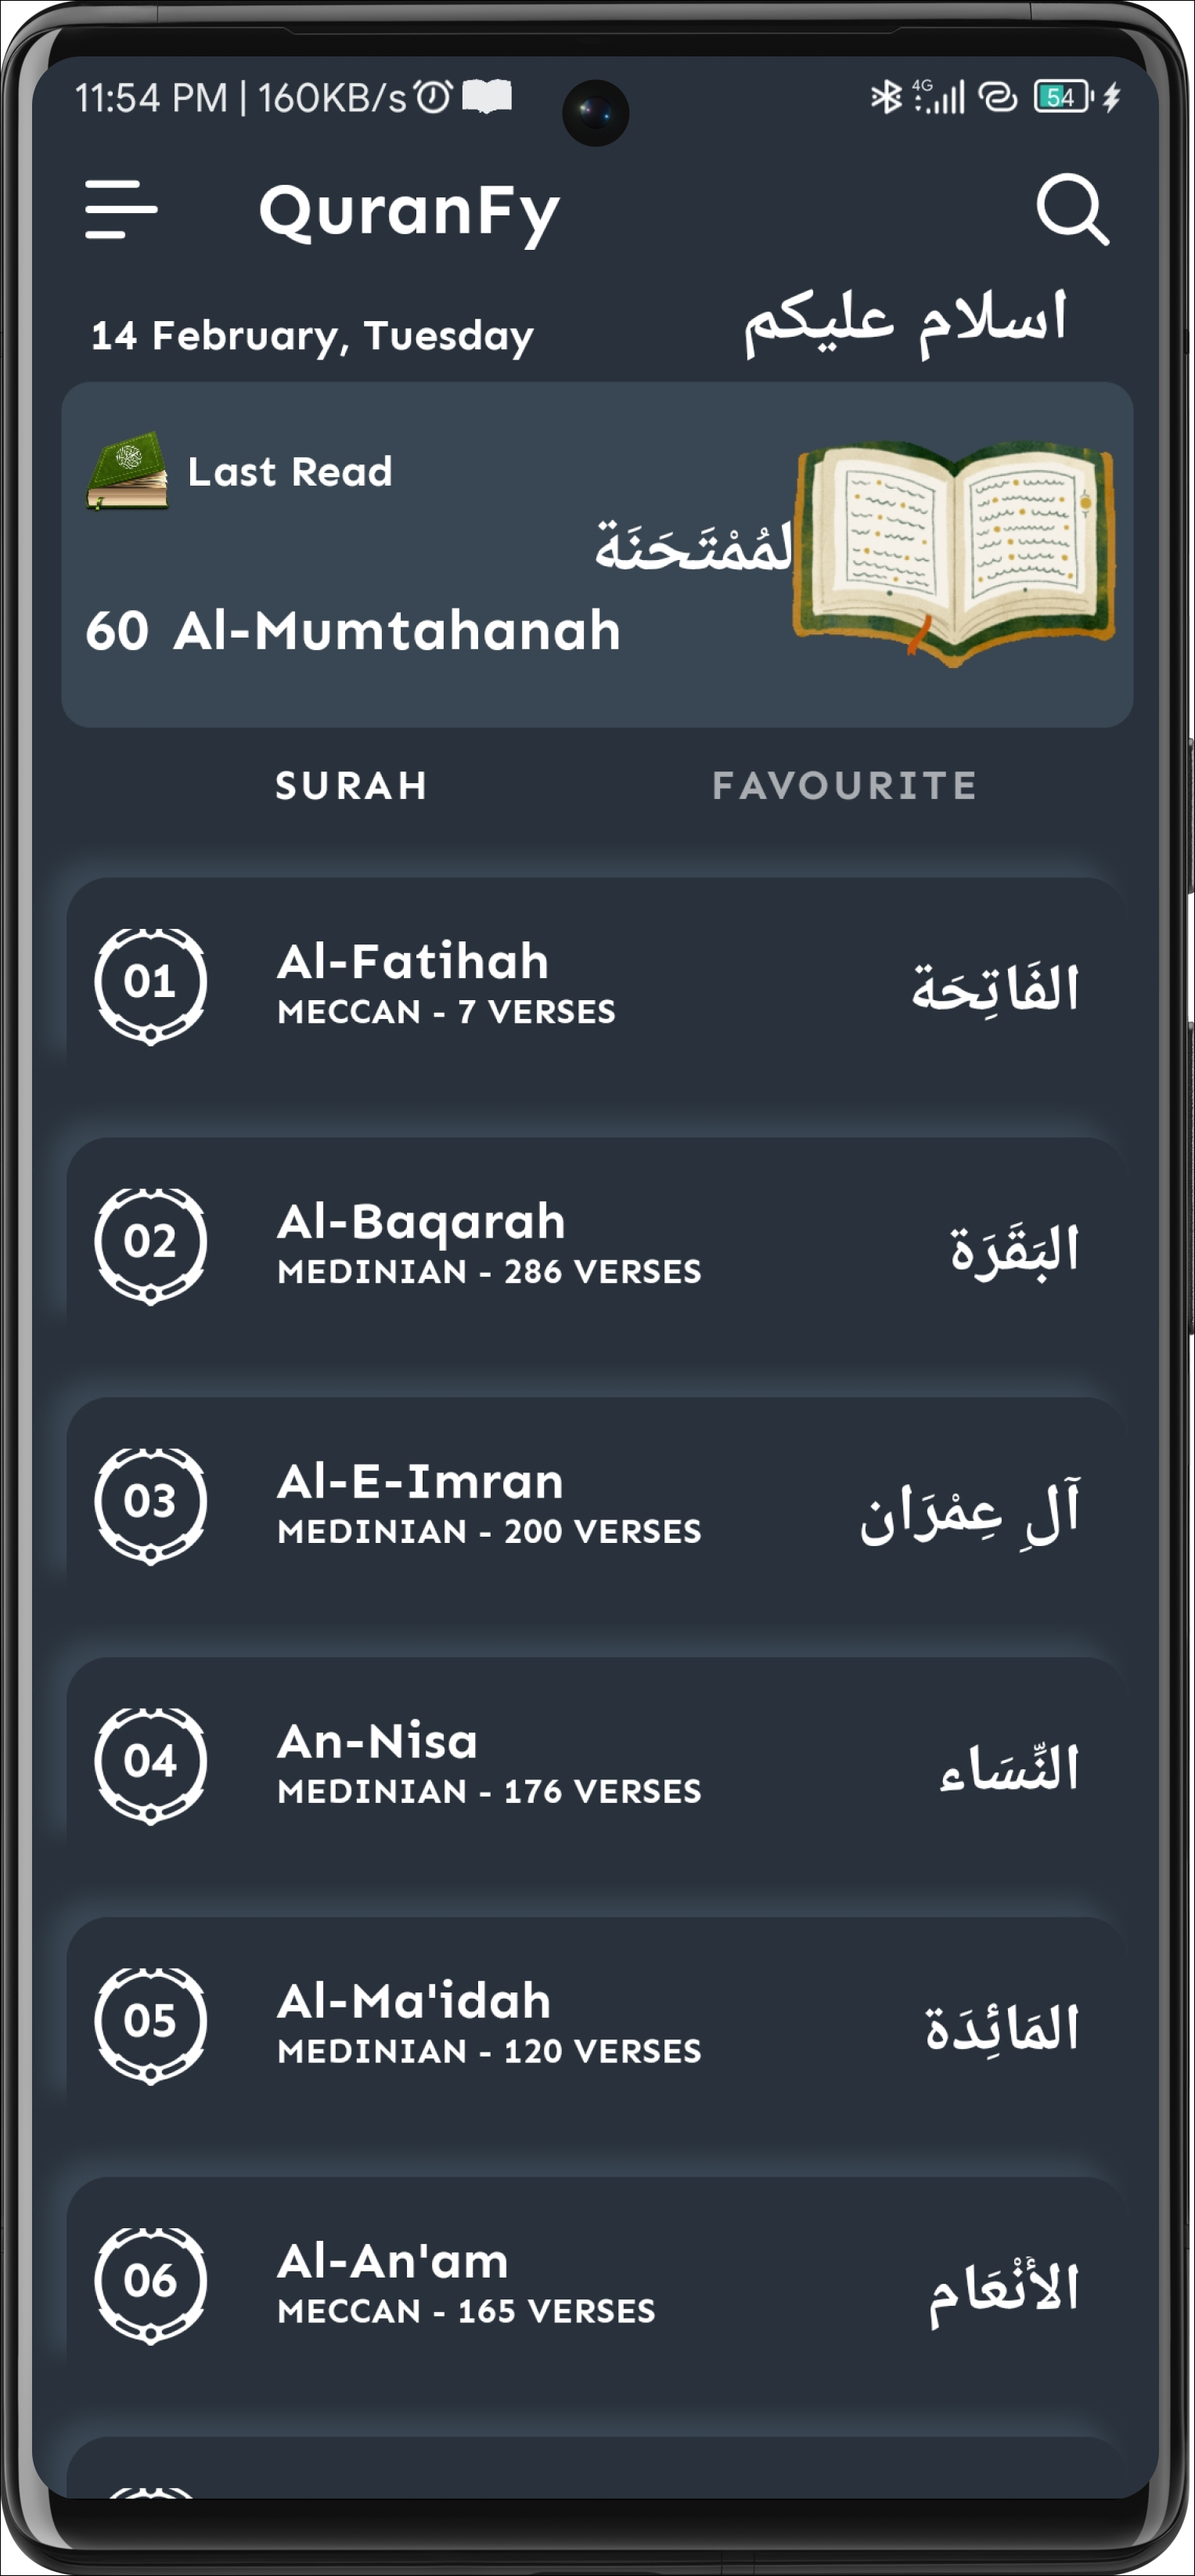
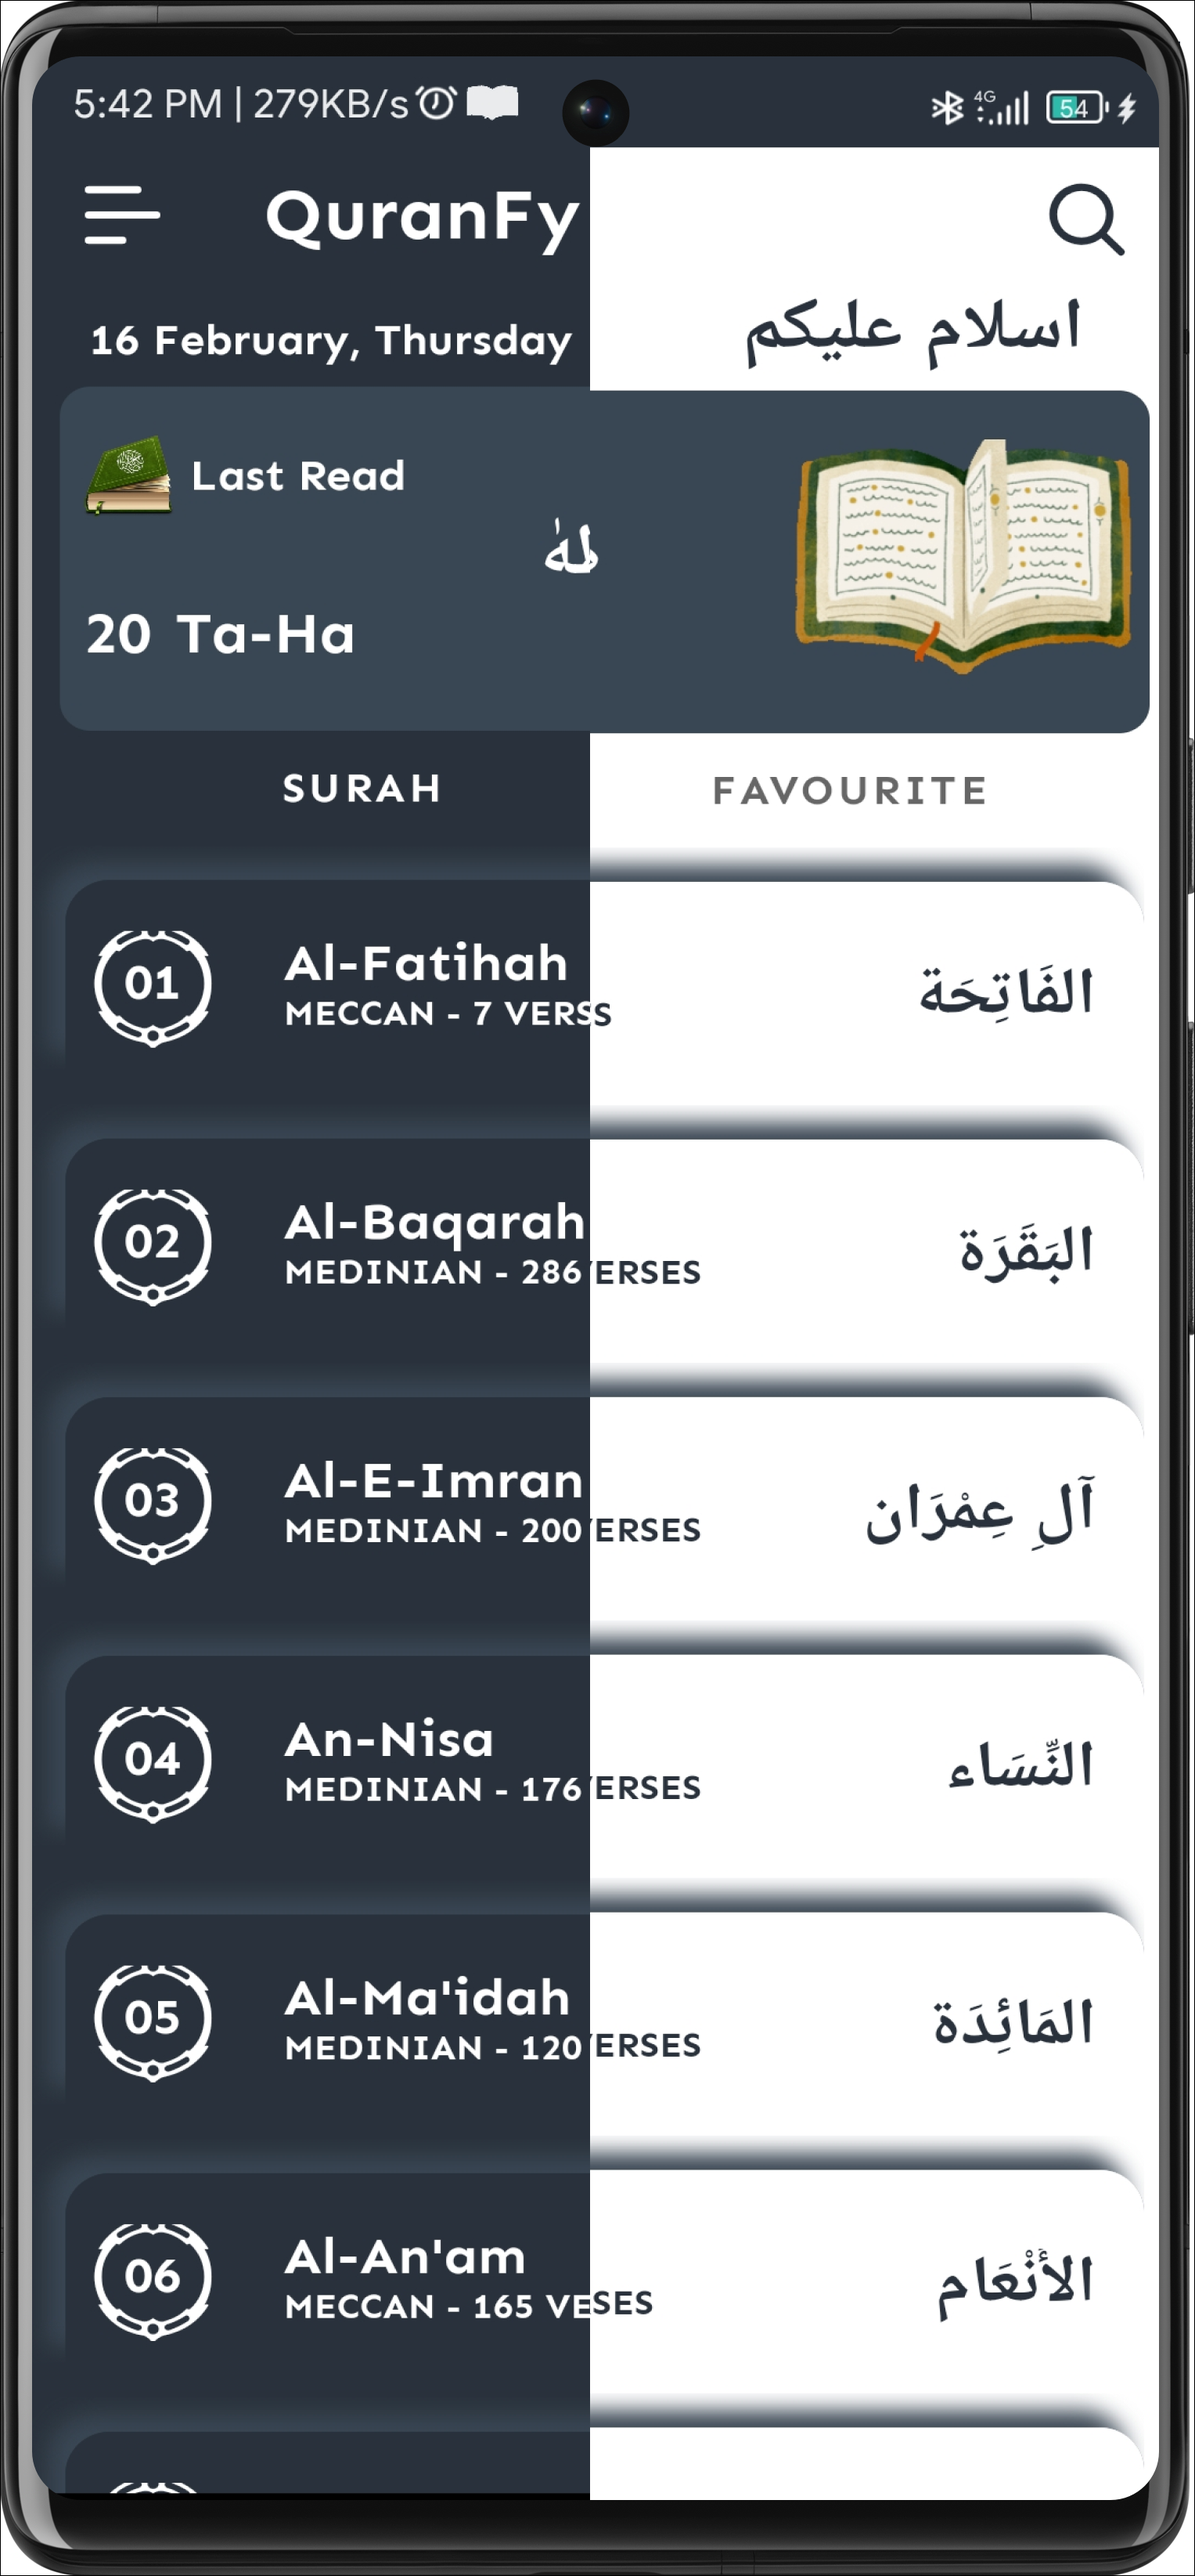
changed images

diff --git a/ReadMe.md b/ReadMe.md
@@ -31,11 +31,13 @@
 * Adding Functionalities.
 * Adding LandScape Mode for Reading Quran.
 * Adding Qirat in Another Tab.
+* Fixing Color Contrast.
 
 ## OpenSource API Used
 
     - LyricsView
-    - Neomorphism 
+    - Neomorphism
+    - Firebase 
 
 # License
 
